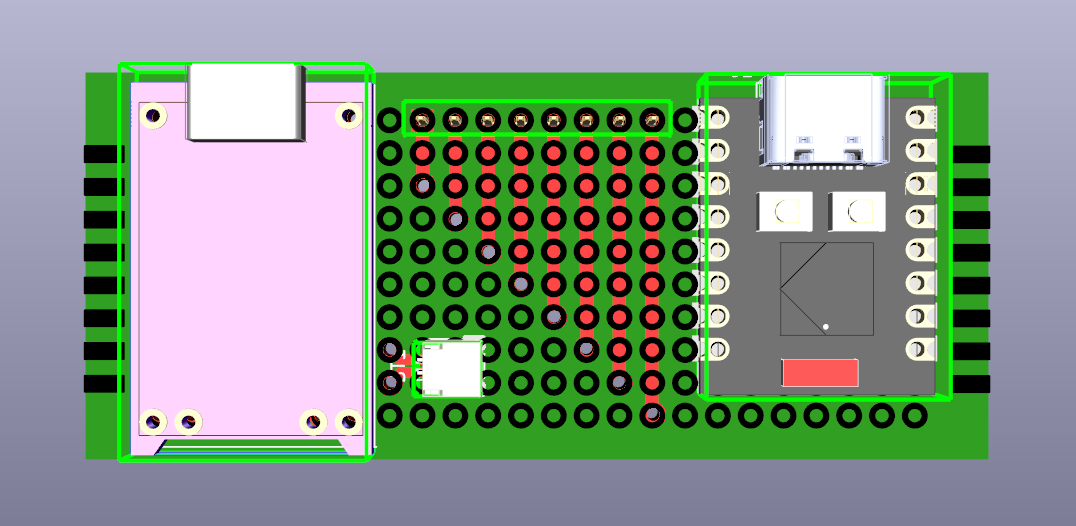
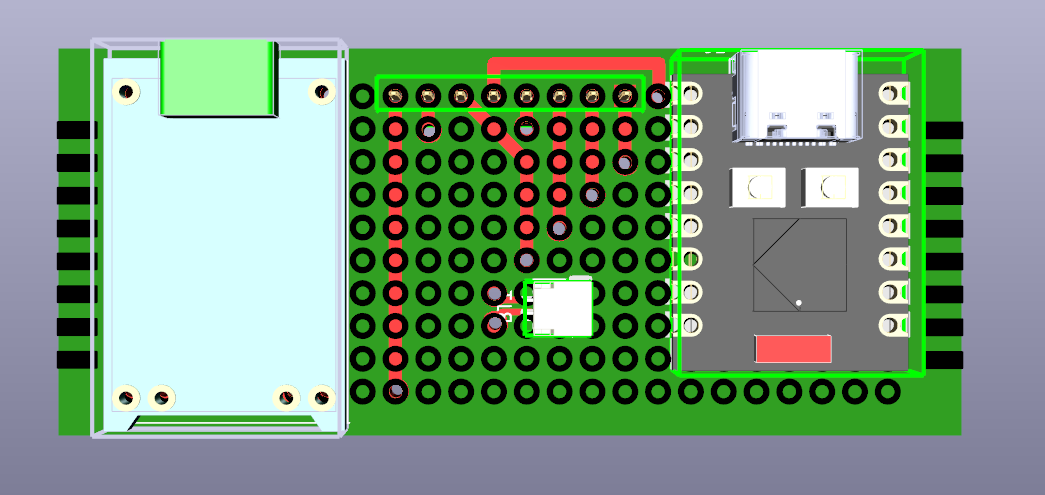
docs: :memo: Fixed design mistake

diff --git a/embedded/city-sim-e-ink-only/lib/Config/Config.h b/embedded/city-sim-e-ink-only/lib/Config/Config.h
@@ -18,8 +18,8 @@ namespace Config {
     }
 
     namespace EinkDisplay {
-        constexpr int MOSI_PIN = 5;
-        constexpr int CLK_PIN  = 4;
+        constexpr int MOSI_PIN = 4;
+        constexpr int CLK_PIN  = 5;
         constexpr int CS_PIN   = 6;
         constexpr int DC_PIN   = 9;
         constexpr int RST_PIN  = 8;
